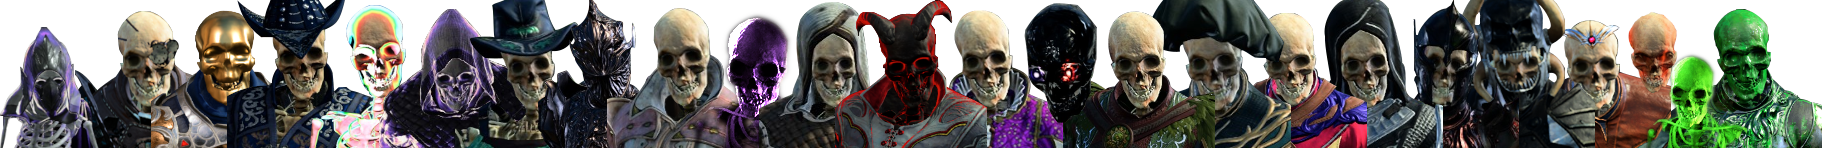
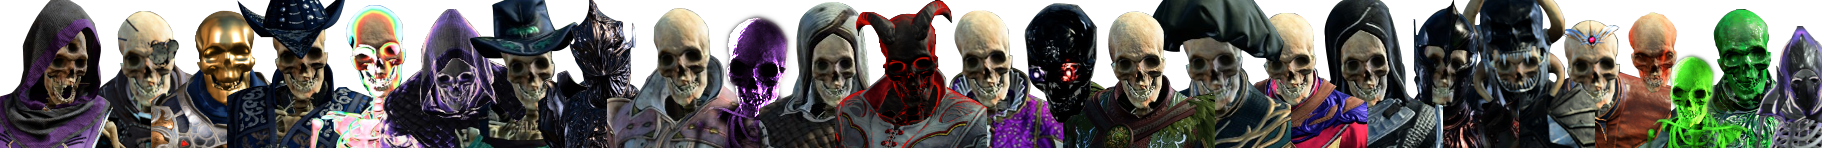
VSC media and desc update.

Changed region(s): [[0.0, 0.0, 0.0922, 1.0], [0.9528, 0.1622, 1.0, 1.0]]

diff --git a/mods_bg3.html b/mods_bg3.html
@@ -291,7 +291,7 @@
 				<br>
 				<div class="grid">
 					<div>
-						<a href="img/moddesc/bg3_vsc_screen_1.png" target="_blank"><img class="grid_img_sharpcorners" src="img/moddesc/bg3_vsc_screen_1.webp" alt="" loading="lazy"></a>
+						<a href="img/moddesc/bg3_vsc_screen_8.png" target="_blank"><img class="grid_img_sharpcorners" src="img/moddesc/bg3_vsc_screen_8.webp" alt="" loading="lazy"></a>
 					</div>
 					<div>
 						<a href="img/moddesc/bg3_vsc_screen_2.webp" target="_blank"><img class="grid_img_sharpcorners" src="img/moddesc/bg3_vsc_screen_2.webp" alt="" loading="lazy"></a>
@@ -317,11 +317,15 @@
 				<p class="flush">Includes a toggleable passive to temporarily disable skeleton spawns.
 				<p class="flush">Skeleton disappear after combat. Or if not, after a short or long rest. Otherwise, !vsc_sweeper in SE console will clean 'em.
 				<p class="flush">Skeletons don't award XP by default. If you want them to yield XP, download the optional XP Enabled mod.
+				<p class="flush">Venn the Graftling Necrobroker only spawns with the Necrobroker wizard subclass mod active.
 				<p class="flush">Yara the Planar Bladesinger only spawns with the Skeletal Challenge or Undead Encounters mods active.
 				<p class="flush">Spawns skeletons from the following mods: Valkrana's Spellbook, Valkrana's Necrobroker, Animate Dead++, Tombstone Undead, Dread Overlord, Casamir and Sedrick.
 				<p class="flush">Mao the Vampiric Illusionist has been cajoled into spawning as part of the Trials of Tav mod.</p>
 				<br>
 				<div class="grid">
+					<div>
+						<a href="img/moddesc/bg3_vsc_screen_1.webp" target="_blank"><img class="grid_img_sharpcorners" src="img/moddesc/bg3_vsc_screen_1.webp" alt="" loading="lazy"></a>
+					</div>
 					<div>
 						<a href="img/moddesc/bg3_vsc_screen_3.webp" target="_blank"><img class="grid_img_sharpcorners" src="img/moddesc/bg3_vsc_screen_3.webp" alt="" loading="lazy"></a>
 					</div>
